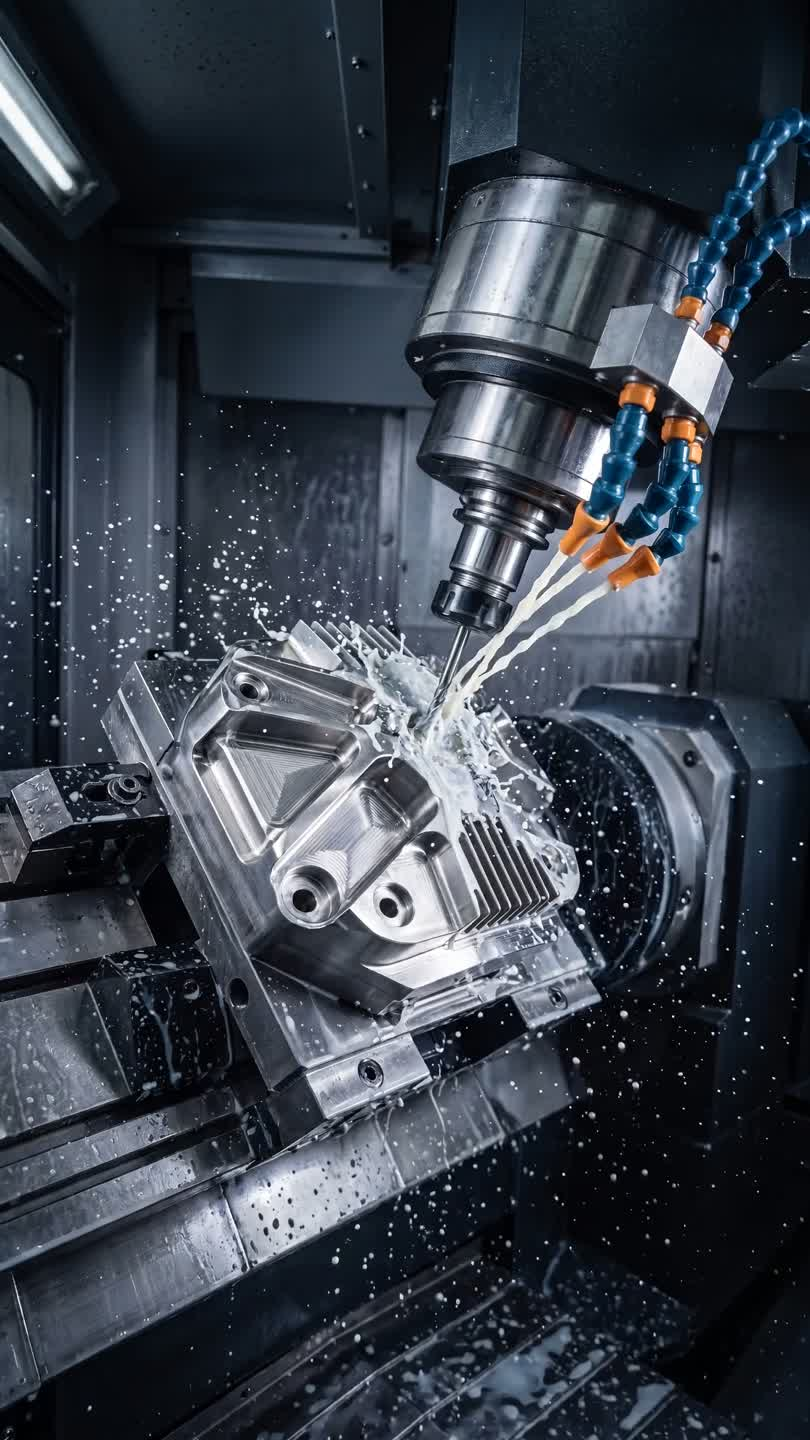
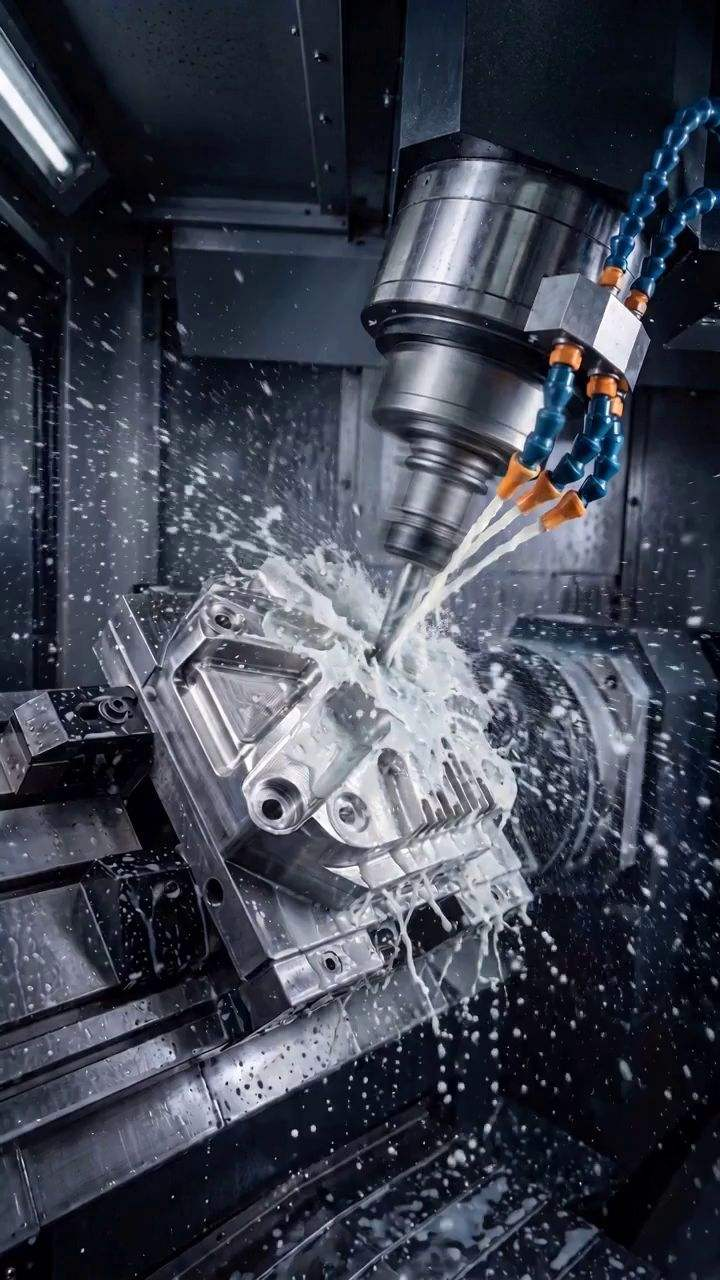
film FLOOR: high-RPM blurred spindle + part drenched in coolant
Root cause of the repeated 'spindle not spinning' failures: every prior
attempt anchored the loop on a still with a FROZEN-SHARP tool, and the
start/end-frame conditioning locked that in. Fix: bake rotational
motion blur into the anchor itself (i2i on the owner's frame, job
2ec71e39), then animate - the tool now reads as a spinning blurred
cylinder for the whole clip, coolant blasts from all nozzles, the part
stays covered, trunnion visibly rotates. Tail crossfaded into head
(seam 29->12 RMS, residual is splash chaos). 3.07MB, ?v=2 busted.

diff --git a/index.html b/index.html
@@ -63,8 +63,8 @@
   <section class="theaters" id="theaters" aria-label="Three domains — floor, sky, orbit">
     <div class="th-stage">
       <div class="th-panel" data-rate="0.9">
-        <img class="th-poster" src="assets/t1-poster.jpg" alt="5-axis CNC machining under flood coolant" />
-        <video muted playsinline loop preload="none" poster="assets/t1-poster.jpg" data-video="assets/t1-floor.mp4" aria-hidden="true"></video>
+        <img class="th-poster" src="assets/t1-poster.jpg?v=2" alt="5-axis CNC machining under flood coolant" />
+        <video muted playsinline loop preload="none" poster="assets/t1-poster.jpg?v=2" data-video="assets/t1-floor.mp4?v=2" aria-hidden="true"></video>
         <div class="th-label">Floor</div>
         <div class="cardrow"><div class="cap-card"><span class="cc-tag">FLOOR</span> 5-AXIS CNC · AS9100D</div></div>
       </div>